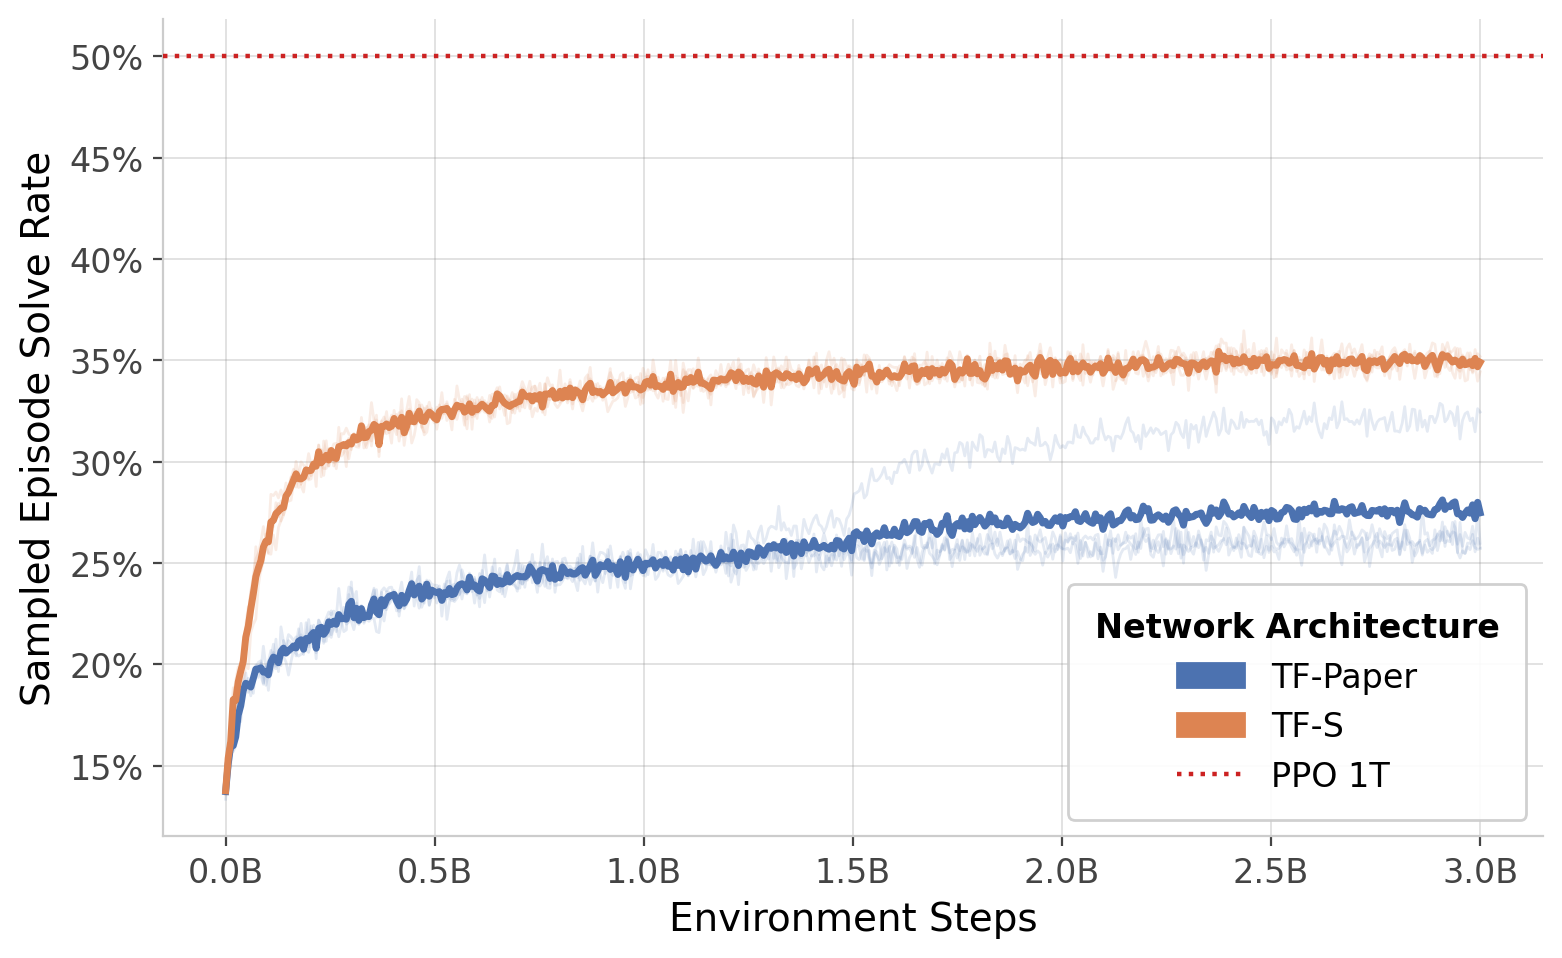
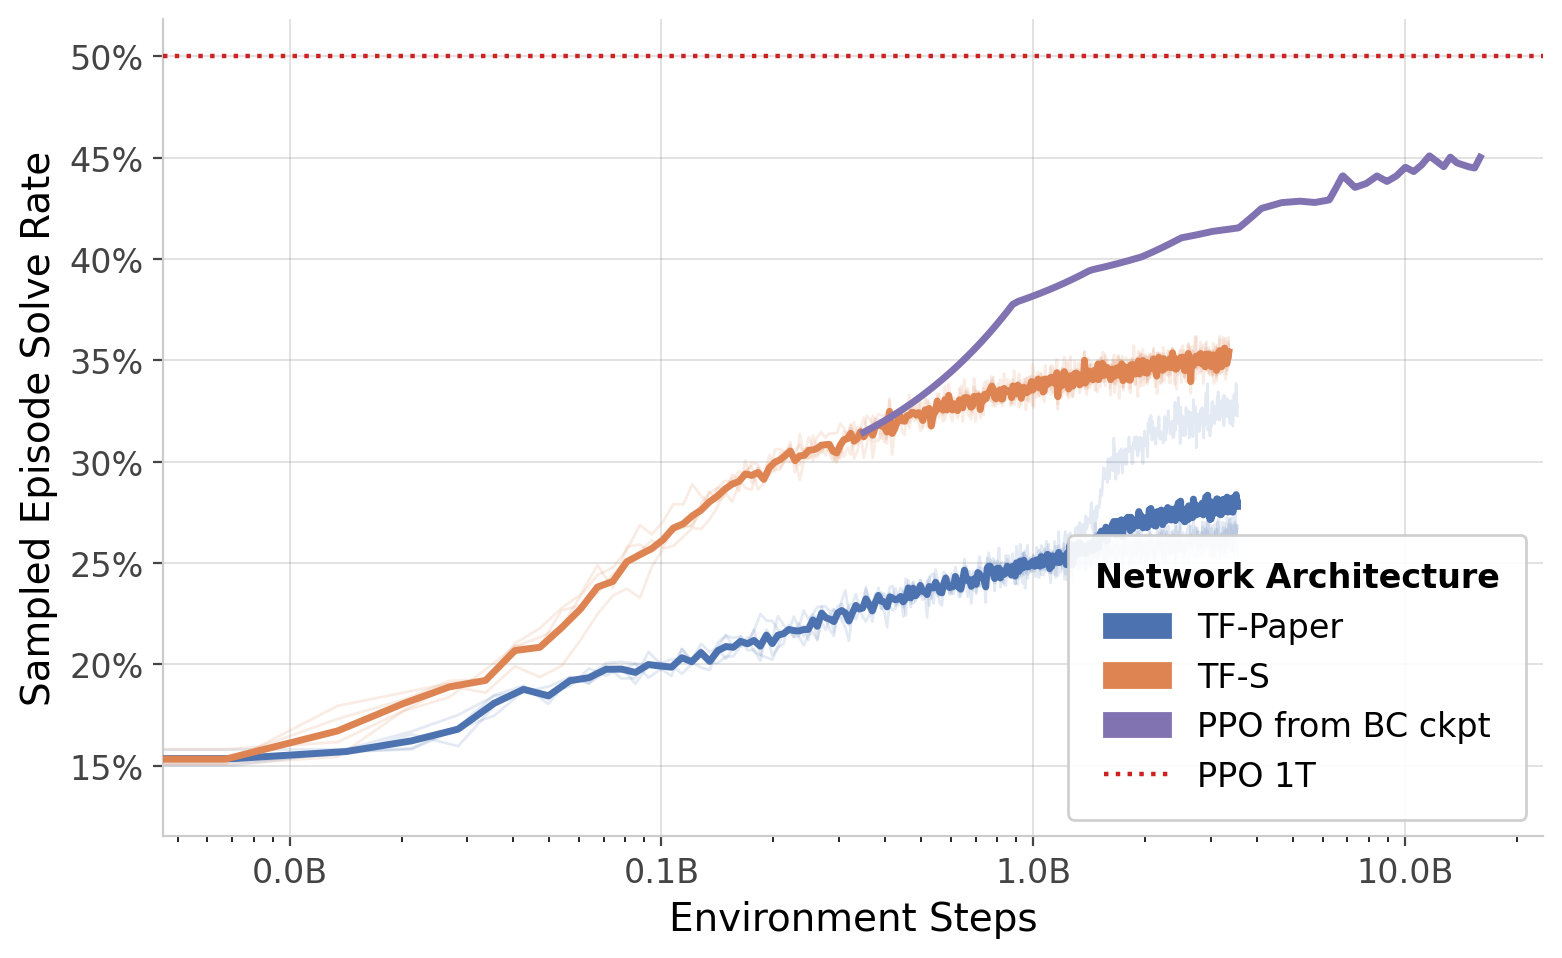
clean

diff --git a/dataset/index.html b/dataset/index.html
@@ -812,7 +812,7 @@
       <figure>
         <img width="80%" style="display:block; margin:auto" src="assets/bc_results.png">
         <figcaption style="text-align:center; margin-top:0.5em;">
-          [TODO: caption — what is the y-axis, what is the evaluation set?]
+          Solve rate on the randomly sampled m environments, across two different network architectures. The dotted red line represents performance after 1 trillion timesteps of from-scratch PPO.
         </figcaption>
       </figure>
     </div>
